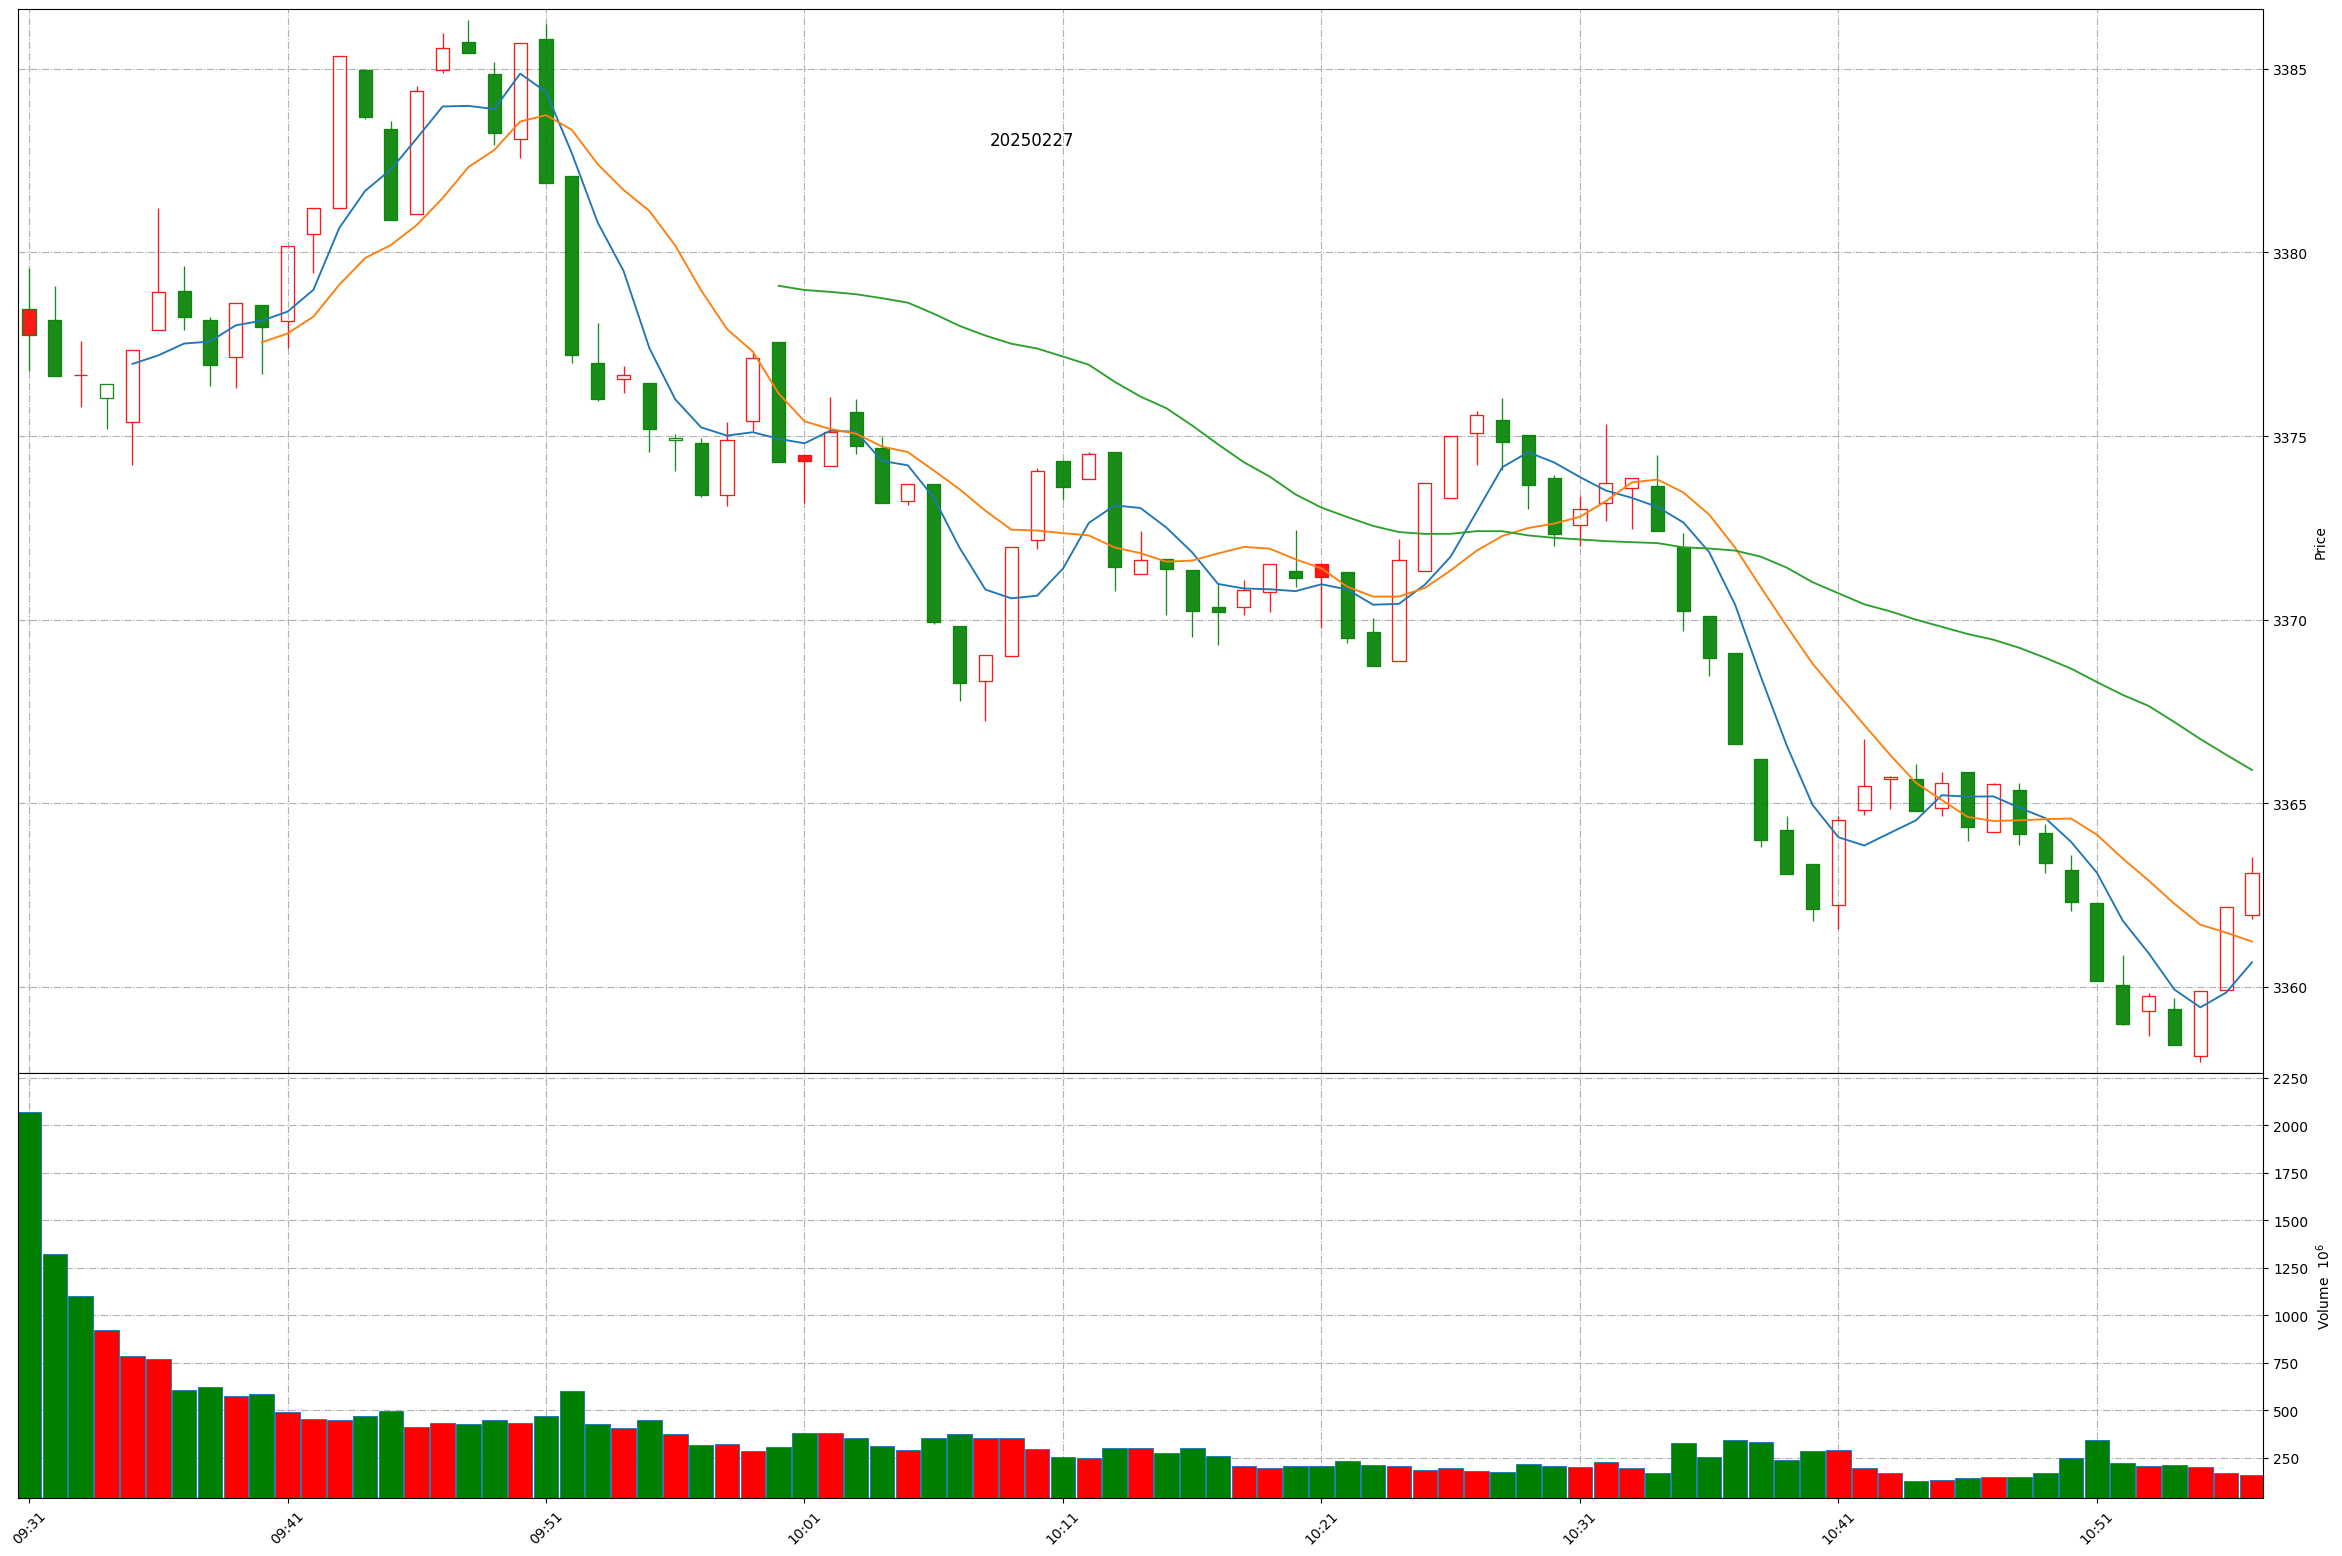
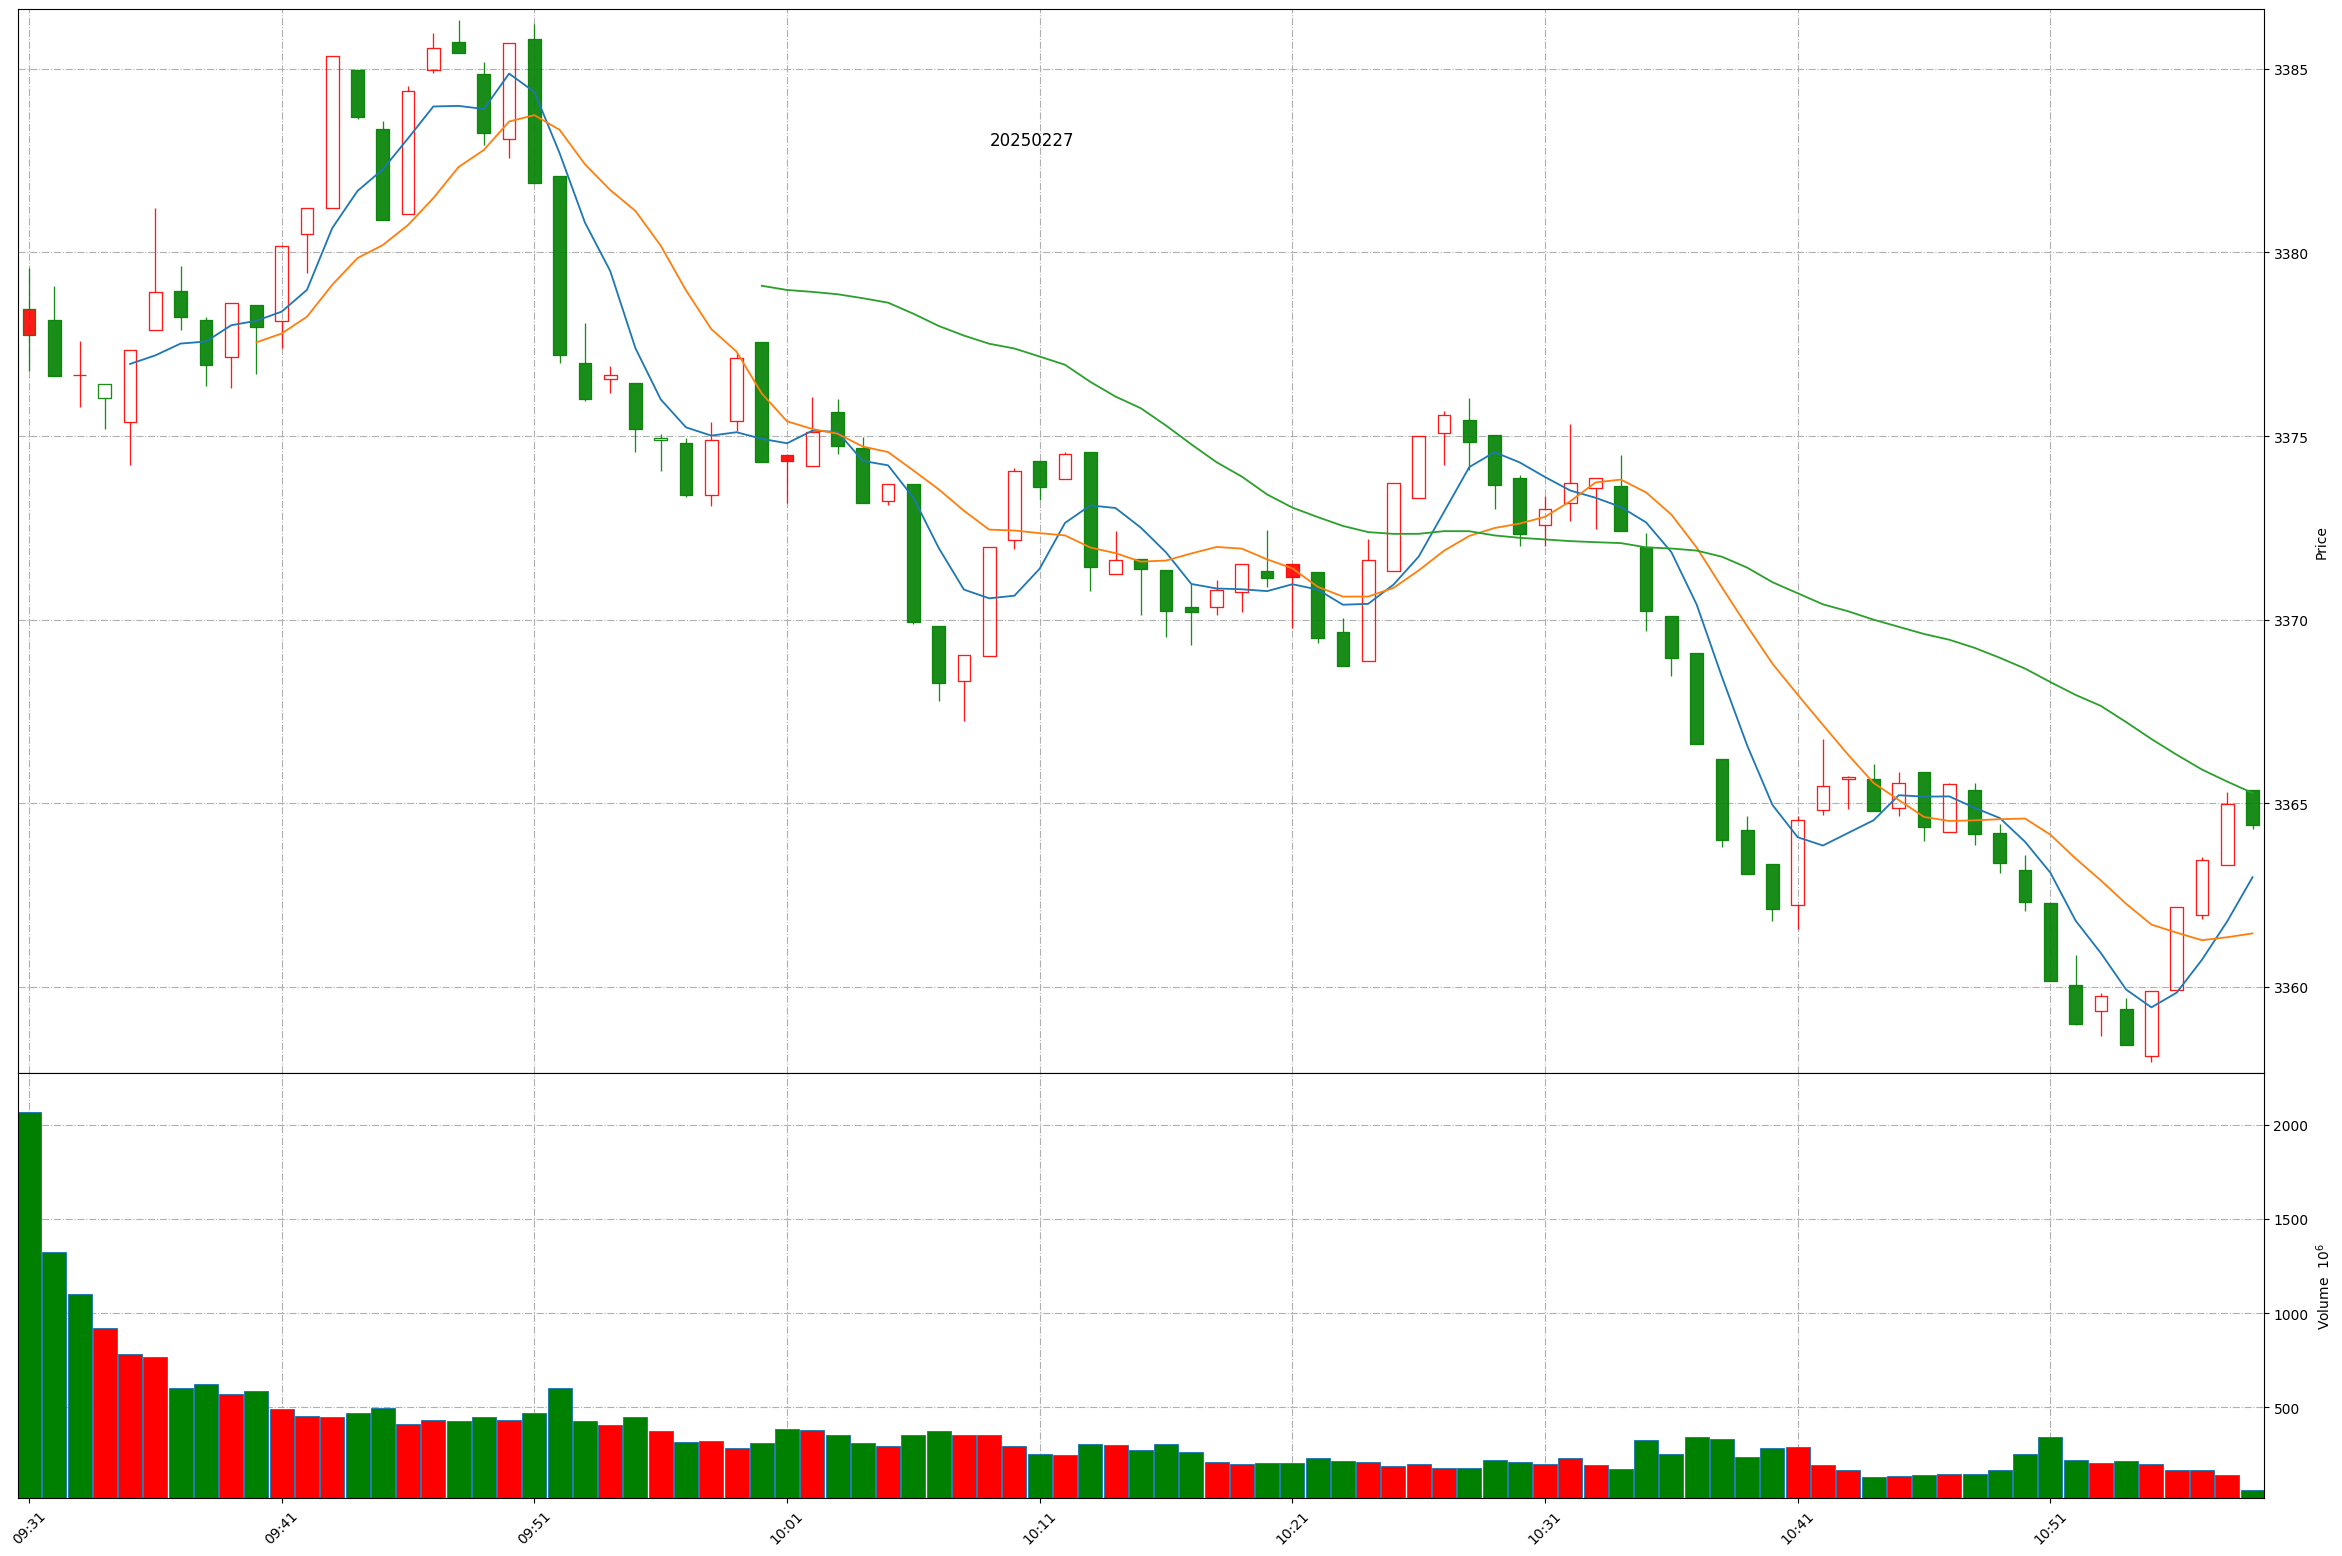
Github action update at 2025-02-27 10:58:38.

diff --git a/README.md b/README.md
@@ -1,11 +1,11 @@
 
 # Daily-A-share-market-quotes 每日 A 股指数（5min 更新）- 20250227
 
-### 上证指数 20250227 10:57
+### 上证指数 20250227 10:58
 ![](./fig/2025/2/20250227-sh000001.png)
 
-### 深证成指 20250227 10:57
+### 深证成指 20250227 10:58
 ![](./fig/2025/2/20250227-sz399001.png)
 
-### 北证50 20250227 10:57
+### 北证50 20250227 10:58
 ![](./fig/2025/2/20250227-bj899050.png)
